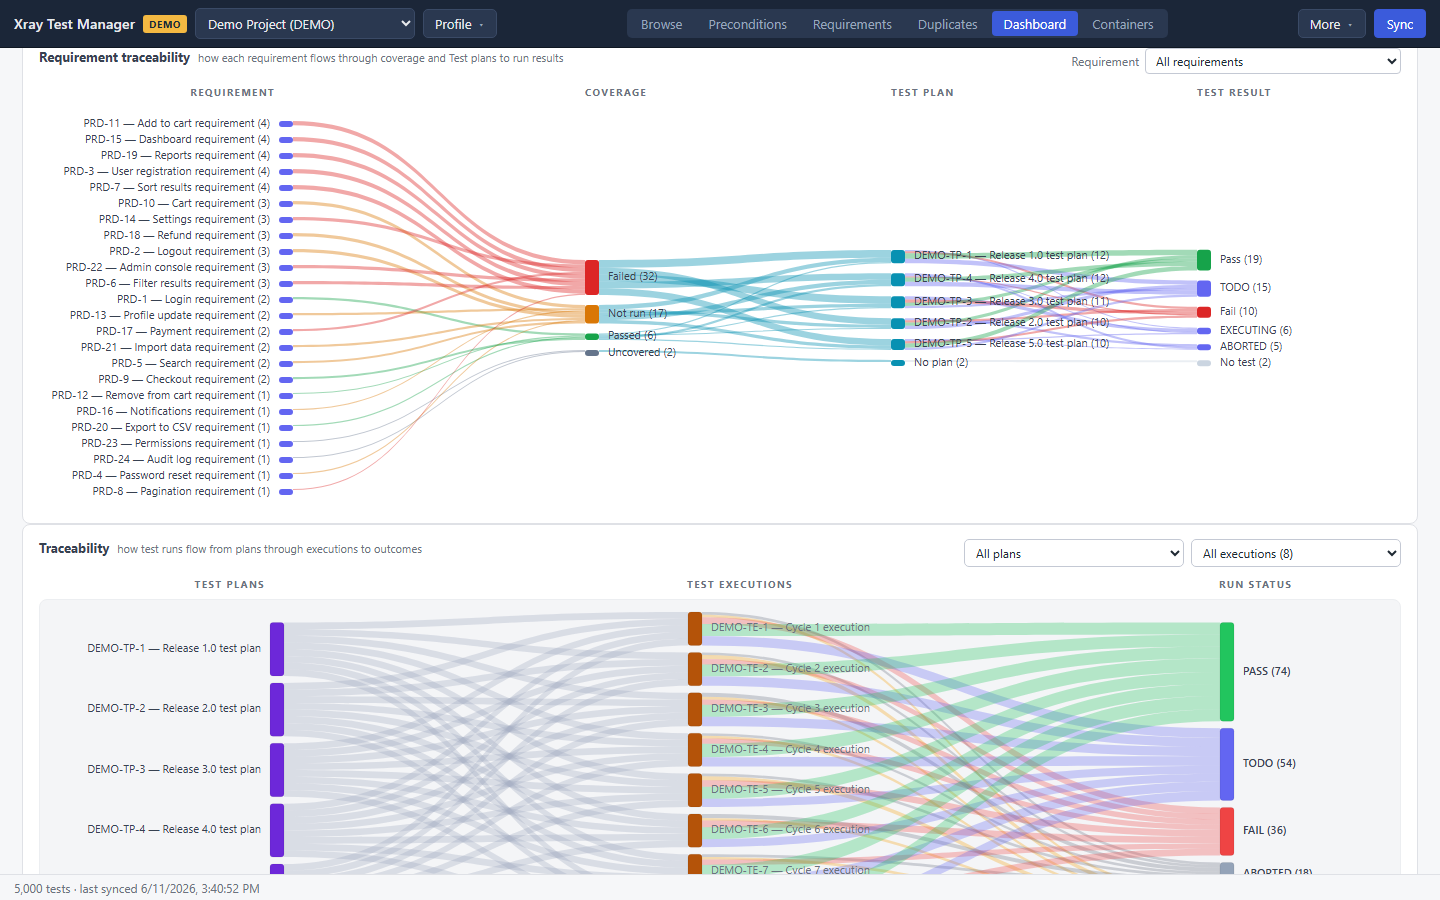
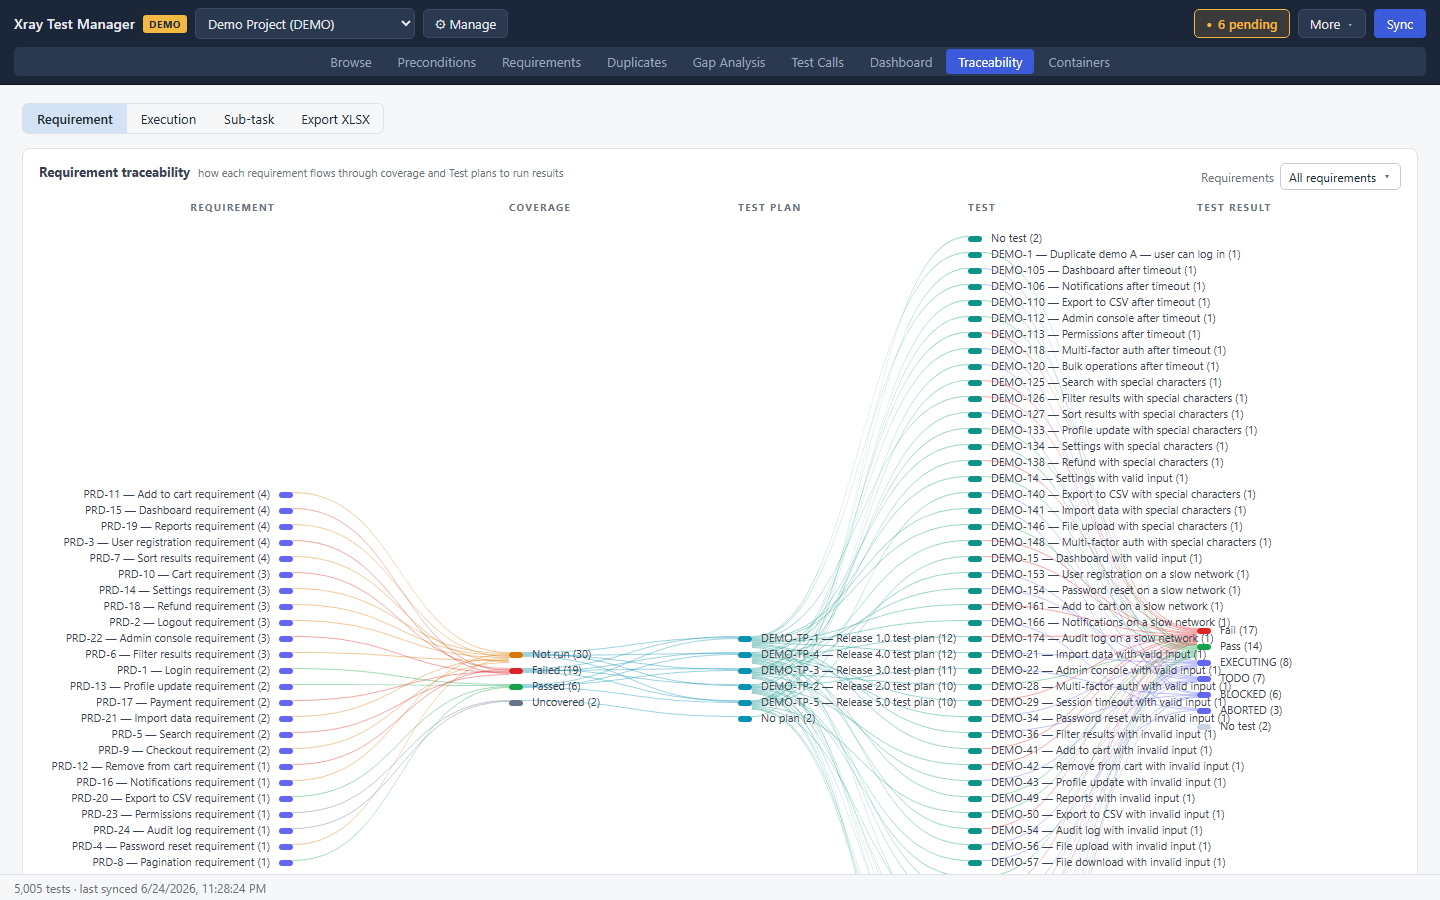
docs(user-guide): screenshots + sections for the post-alpha 1.7.0 features (JUnit import, per-test fix version, plan-nested breakdown, requirement side panel, Sankey Test node + parent summary)

diff --git a/docs/user-guide/USER_GUIDE.md b/docs/user-guide/USER_GUIDE.md
@@ -36,11 +36,32 @@ you commit.
   bug's tests to an **existing** Test Execution. See
   [Defect tracking](#12-defect-tracking).
 - **Read-only detail side panels.** The read-only test detail also opens beside
-  the Test Execution member list in Containers.
+  the Test Execution member list in Containers, and the same side-panel layout is
+  used from the **Requirements** view's covering-tests table (it no longer takes
+  over the whole screen). See [Requirements & coverage](#9-requirements--coverage).
+- **Import JUnit XML results.** Update a Test Execution's run results by importing
+  a JUnit-compatible report, matching each `<testcase name>` to a test by summary.
+  Import into the **selected execution**, or **create a new execution** from the
+  report (optionally creating any tests it does not find). See
+  [Containers](#11-test-sets-plans--executions-containers).
+- **Per-test Fix Version on executions.** Each member of a Test Execution shows
+  its **own** Jira Fix Version(s) in a column, and the execution's Fix Version
+  chips are clickable to filter the member list. See
+  [Containers](#11-test-sets-plans--executions-containers).
+- **Run history nested by Test Plan, sortable.** A bug's per-test run breakdown
+  groups runs under each **Test Plan** (a plan can span several executions and fix
+  versions), adds **Created / Updated** timestamps, and the run rows sort by them.
+  See [Defect tracking](#12-defect-tracking).
+- **Traceability detail.** The Requirement flow gains a **Test** column
+  (requirement → coverage → Test plan → **test** → result), and the Sub-task flow
+  labels each parent with its **summary**. See [Traceability](#14-traceability).
+- **Bugs panel polish.** A scrollable bug list with a **select-all** checkbox,
+  working rows-per-page (default 5), and full-colour run-status highlighting.
 - **macOS fixes.** Copy/paste and right-click now work in text inputs (a standard
   Edit menu is wired in); a profile can supply a **custom CA certificate** or
   **allow an untrusted certificate** to connect through an internal CA; and the
-  Personal Access Token field has a **show/hide** toggle. See
+  Personal Access Token field has a **show/hide** toggle. You can also **test the
+  connection while editing** a saved profile (it uses the stored token). See
   [Connecting to Jira](#2-connecting-to-jira-profiles).
 
 > This is an **alpha** build (`1.7.0a`) for validation. The live Xray run data
@@ -464,9 +485,16 @@ tests with their run results.*
   test count.
 - The detail pane lists the **covering tests** (paginated) with run results, and
   lets you edit the summary or delete the requirement.
+- Clicking a covering test opens its detail **read-only in a side panel** to the
+  right, so you can inspect its steps and fields without leaving the Requirements
+  view (the same side-panel layout used in the Bugs view).
 - **+ Add tests** links covering tests to the selected requirement directly from
   this view (a searchable multi-pick), queued for commit like any coverage edit.
 - **Export audit…** writes the coverage / sign-off audit to CSV or XLSX.
+
+![Figure 53: Requirement covering-test detail](images/53-requirement-test-detail.png)
+*Figure 53 — A covering test opened read-only in a side panel beside the
+requirement detail.*
 
 ### Requirement sources
 
@@ -572,6 +600,39 @@ test's **read-only** detail in a side panel beside the board (the same panel the
 Bugs view uses, see [Defect tracking](#12-defect-tracking)), so you can read its
 steps and fields without leaving Containers.
 
+**Per-test Fix Version filter.** Each member of a Test Execution shows its **own**
+Jira Fix Version(s) in a **Fix Version** column (members can differ from one
+another). The execution's Fix Version chips are clickable: select one to filter
+the member list to the tests carrying it, and click it again (or **All**) to
+clear.
+
+![Figure 52: Per-test Fix Version on an execution](images/52-exec-fixversion-filter.png)
+*Figure 52 — A Test Execution's member table with the per-test **Fix Version**
+column and the run-status results highlighted in full colour.*
+
+### Import JUnit XML results
+
+You can update run results in bulk by importing a **JUnit-compatible XML** report.
+Each `<testcase name>` is matched to a test by its **summary** (normalized), and
+the result maps as: no failure/error → **PASS**, a `<failure>`/`<error>` →
+**FAIL**, a `<skipped>` is left unchanged. Two entry points on the Test Execution
+view:
+
+- **Import results (JUnit XML)** updates the **selected** execution. Matched
+  member tests get the imported result; unmatched or ambiguous testcases are
+  reported and skipped.
+- **New exec from JUnit XML** **creates a new Test Execution** from the report:
+  enter the execution summary, optionally tick **Create missing tests** (any
+  testcase with no matching test is created first), then pick the file. All tests
+  are allocated to the new execution and given their results.
+
+Either way the work is queued as pending changes and a preview shows what will be
+applied before you commit. See [Committing changes](#15-committing-changes-to-jira).
+
+![Figure 50: Create a Test Execution from a JUnit report](images/50-junit-new-exec.png)
+*Figure 50 — The "New execution from JUnit XML" dialog: an execution summary, the
+**Create missing tests** option, and the file picker.*
+
 ### Generate a pytest scaffold
 
 From a Test Plan or Execution you can generate a **pytest** scaffold for its
@@ -609,14 +670,16 @@ project). Bug sync respects the profile's scope and shows progress in the status
 bar.
 
 **Affected-tests breakdown.** The affected-tests table shows each test's
-**Project**, and each row expands to a per-test run breakdown — fix version,
-execution, Test Plan, environment, date, tester, and defects — drawn from the
-test's run history, so you can see how each affected test fared without opening
-Xray.
+**Project**, and each row expands to a per-test run breakdown — execution,
+result, fix version, environment, date, tester, **Created / Updated**, and
+defects — drawn from the test's run history, so you can see how each affected
+test fared without opening Xray. The runs are **grouped by Test Plan** (a plan
+can span several executions and fix versions), and the run rows **sort** by
+result, Created, or Updated.
 
 ![Figure 45: Affected-tests breakdown](images/45-bug-breakdown.png)
-*Figure 45 — A bug's affected tests with the Project column and an expanded
-per-test run breakdown.*
+*Figure 45 — A bug's affected tests with the Project column and the expanded
+per-test run breakdown grouped by Test Plan, with Created / Updated columns.*
 
 **Open a test read-only.** The open-detail icon on an affected test opens that
 test's **read-only** detail in a side panel beside the bug detail, mirroring the
@@ -667,10 +730,12 @@ threads.
   whose Test Execution lives in a *different* Jira project than the current
   profile; while it's on, a **cross-project bugs** list appears beside the
   diagram.
-- **Requirement** — flows **Requirement → Coverage → Test plan → Test result**,
-  with a multi-select requirement filter.
+- **Requirement** — flows **Requirement → Coverage → Test plan → Test → Test
+  result** (the covering test case is shown explicitly), with a multi-select
+  requirement filter.
 - **Sub-task** — flows **Parent issue → Test Execution → run result** over
-  sub-task Test Executions, with a **Parent** filter. Use it to see, per parent
+  sub-task Test Executions, with a **Parent** filter (each parent is shown as
+  *key — summary*). Use it to see, per parent
   issue, which sub-task executions ran its tests and how they turned out.
 
 Each tab's toolbar offers **Export XLSX**, which writes the current diagram as a
@@ -682,10 +747,13 @@ are drawn in the flow.
 *Figure 27 — The Execution tab: Test Plan → Test Execution → run status.*
 
 ![Figure 26: Requirement traceability](images/26-requirement-sankey.png)
-*Figure 26 — The Requirement tab: requirement → coverage → Test plan → result.*
+*Figure 26 — The Requirement tab: requirement → coverage → Test plan → test →
+run result. The **Test** column shows the covering test case between its plan and
+its result.*
 
 ![Figure 38: Sub-task traceability](images/38-subtask-sankey.png)
-*Figure 38 — The Sub-task tab: parent issue → execution → run result, with the
+*Figure 38 — The Sub-task tab: parent issue (key — summary) → execution → run
+result, with the
 Parent filter.*
 
 ---

diff --git a/docs/user-guide/SCREENSHOTS.md b/docs/user-guide/SCREENSHOTS.md
@@ -104,6 +104,17 @@ columns: date / tester / environment), **44** (Plan / Set run roll-up), **45**
 | 47 | `47-add-to-execution.png` | Bugs → check one or more bugs → **Add to execution…** | The picker modal listing existing Test Executions with a search box |
 | 48 | `48-pat-toggle.png` | **Profile → New profile…** (or Edit) | The Personal Access Token field with its show/hide (eye) toggle |
 | 49 | `49-tls-settings.png` | Profile form → expand **Advanced: TLS / certificate settings** | The CA certificate (PEM) textarea and the allow-untrusted checkbox |
+| 50 | `50-junit-new-exec.png` | **Containers** → kind **Test Execution** → **New exec from JUnit XML** | The dialog: execution summary, **Create missing tests** checkbox, and the file picker |
+| 52 | `52-exec-fixversion-filter.png` | **Containers** → kind **Test Execution**, select one | The member table with the per-test **Fix Version** column and full-colour run-status results |
+| 53 | `53-requirement-test-detail.png` | **Requirements** → pick a requirement with covering tests → click a covering test | The covering test's read-only detail open as a right-side panel |
+
+**Refresh for 1.7.0a (post-alpha).** Re-shoot these because their UI changed:
+**26** (Requirement Sankey now has the **Test** column — 5 layers), **38**
+(Sub-task Sankey parents show **key — summary**), and **45** (the bug affected-test
+breakdown is now **grouped by Test Plan** with **Created / Updated** columns).
+Figure 51 (the JUnit import **preview** into an existing execution) is omitted —
+it needs a real JUnit file through a native file dialog, so the guide describes it
+in text instead.
 
 To refresh a shot: run `wails dev`, open `http://localhost:34115/` in the
 `browse` tool, switch to the **Demo Project (DEMO)** profile, sync once, then
